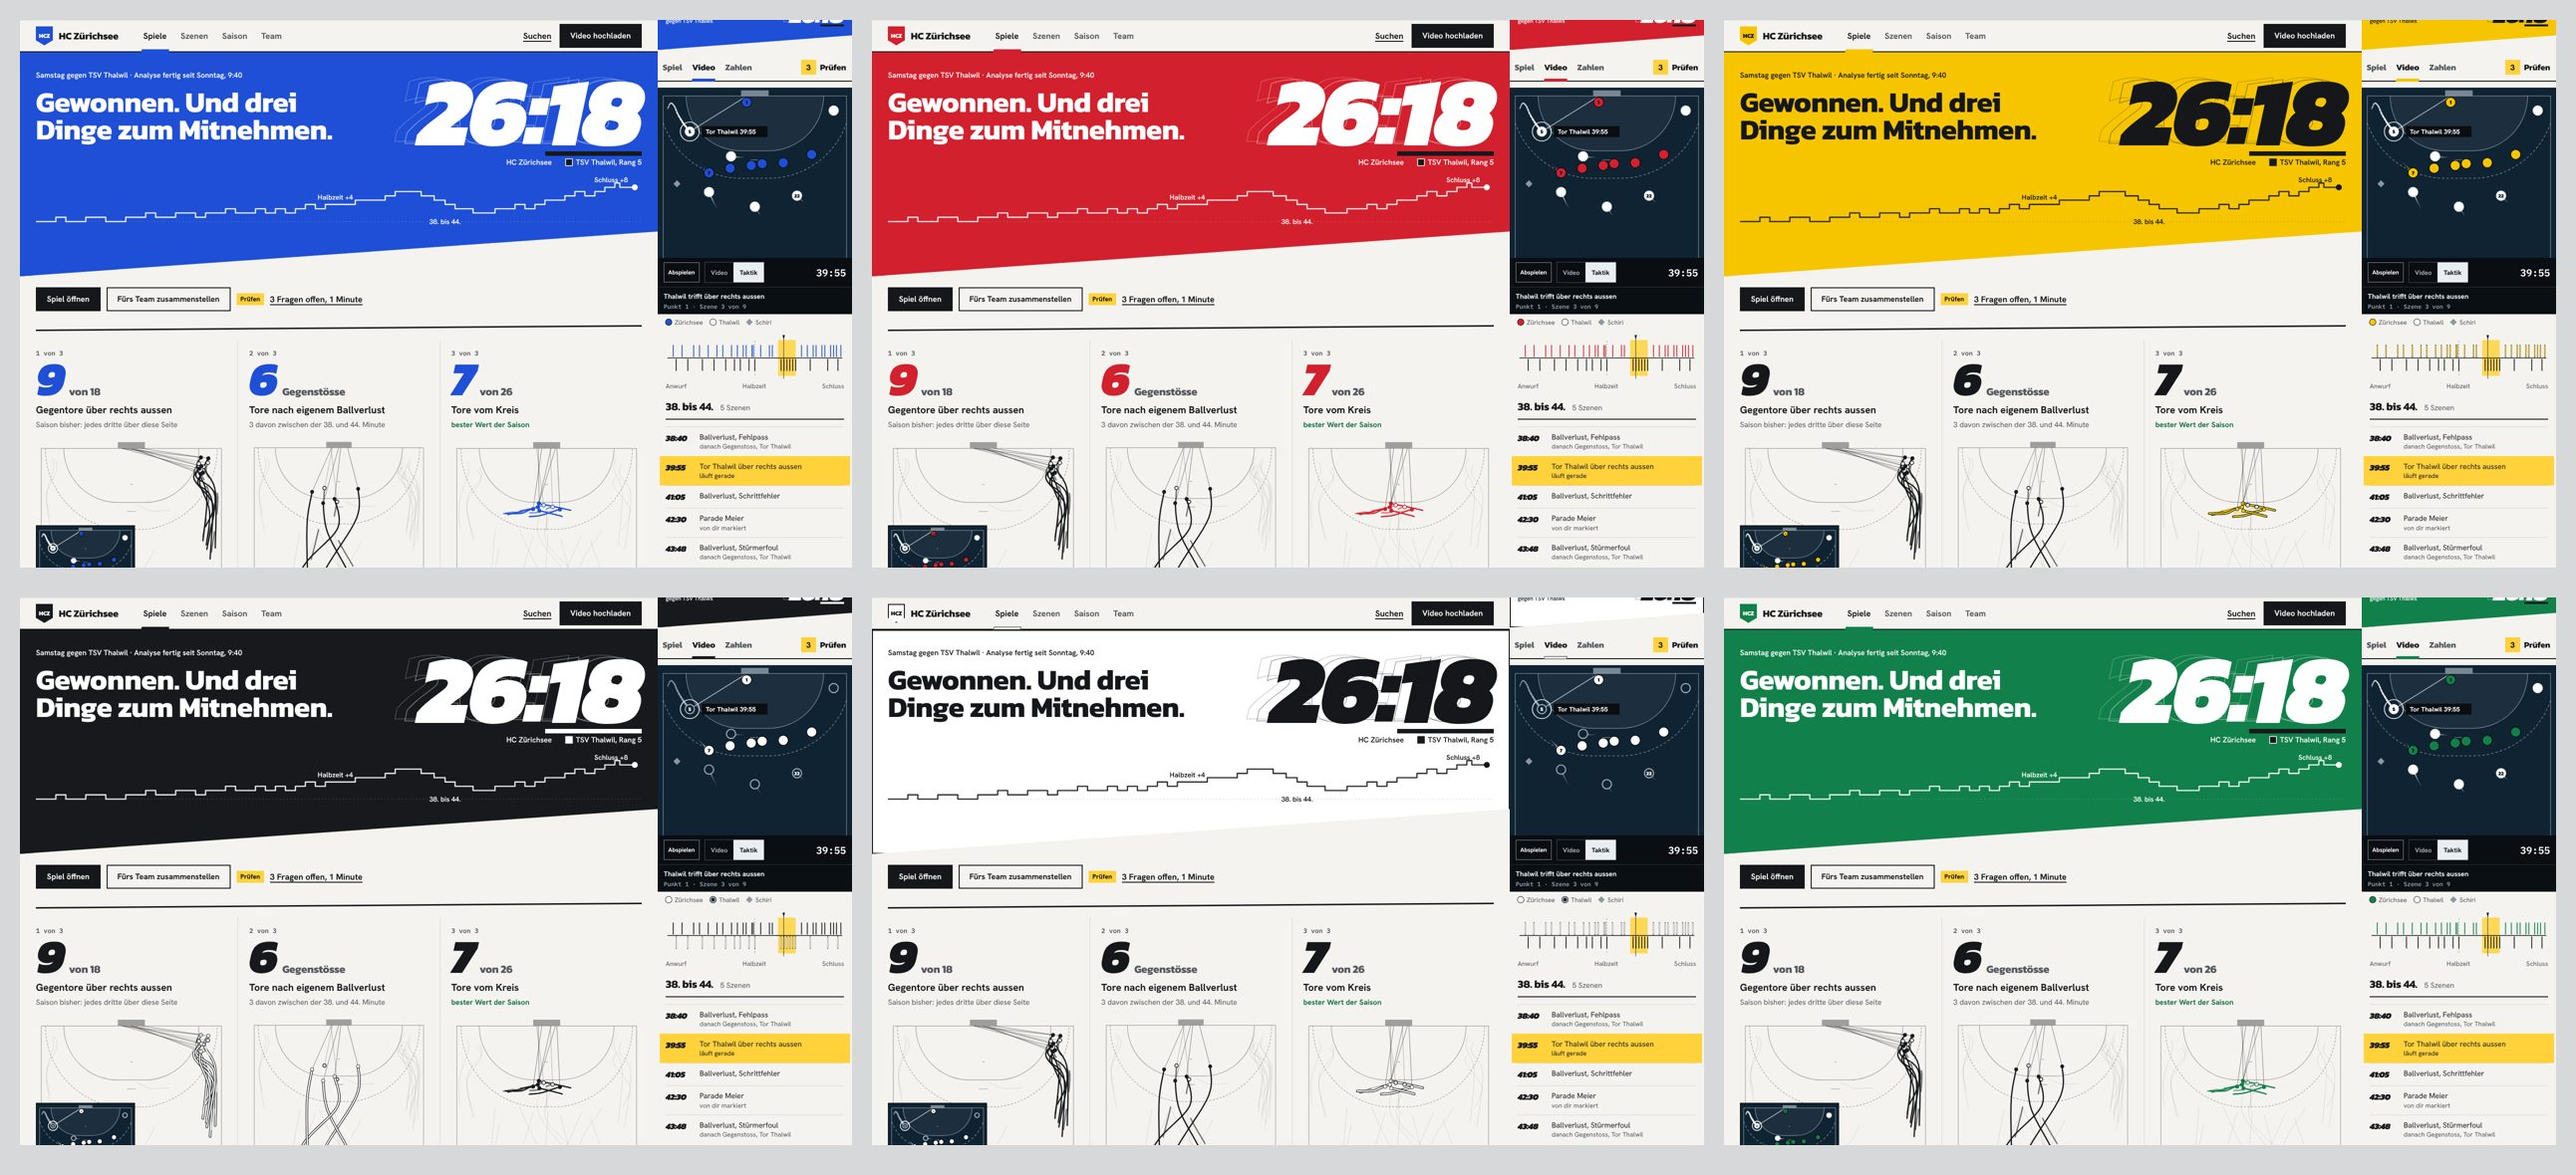
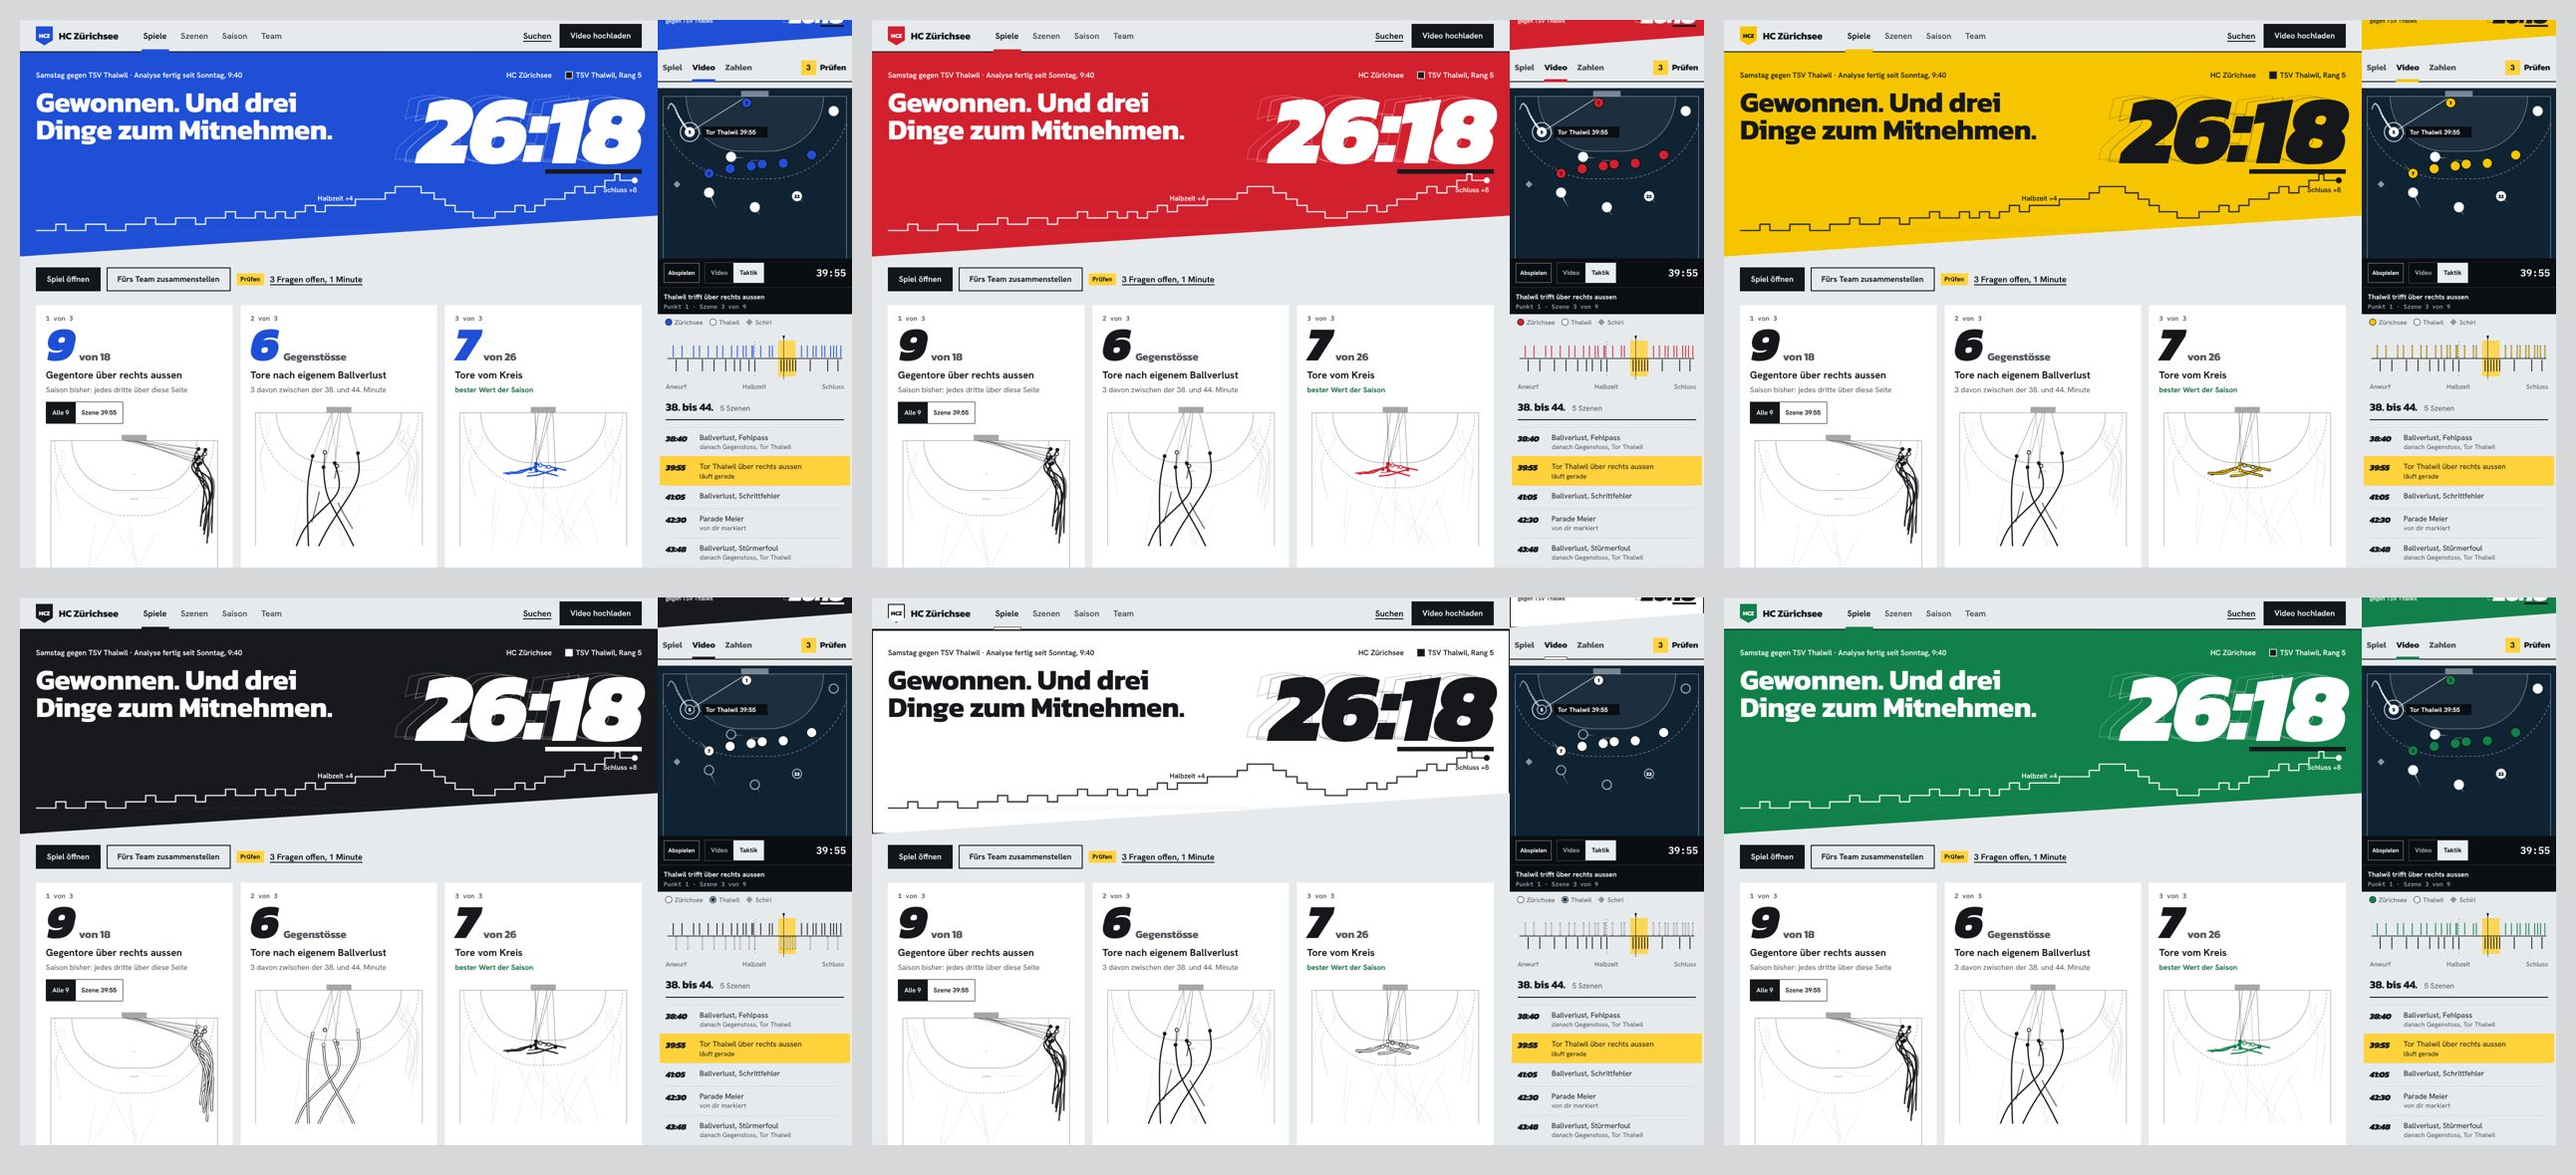
Anlauf: Punkt 1 schaltet zwischen Bündel und Szene, knapperer Wurf-Kopf, Feld-Check mit allen Ecken, Voreinstellung Schrift B mit Hallenlicht
Claude-Session: https://claude.ai/code/session_01H3gogARaTuGEWAQFd1Wjty

diff --git a/docs/design/ux-reset/runde5/anlauf/index.html b/docs/design/ux-reset/runde5/anlauf/index.html
@@ -1,5 +1,5 @@
 <!doctype html>
-<html lang="de-CH" class="fa g1">
+<html lang="de-CH" class="fb g2">
 <head>
 <meta charset="utf-8">
 <meta name="viewport" content="width=device-width, initial-scale=1">
@@ -83,7 +83,7 @@ html, body { margin: 0; background: #d6d8d9; color: #15171a; font-family: "Hanke
 
 /* ===== the Wurf head ===== */
 .wurf { position: relative; background: var(--club); color: var(--club-ink); clip-path: polygon(0 0, 100% 0, 100% 80%, 0 100%); box-shadow: inset 0 0 0 2px var(--club-edge); }
-.wurf.big { height: 450px; padding: 36px 32px 0; display: grid; grid-template-columns: 1fr 560px; gap: 24px; }
+.wurf.big { height: 410px; padding: 36px 32px 0; display: grid; grid-template-columns: 1fr 560px; gap: 24px; }
 .wurf .kick { font-size: 15px; font-weight: 600; margin-bottom: 14px; }
 .wurf h1 { font-size: 58px; line-height: .96; text-wrap: balance; }
 .wurf .score { position: relative; text-align: right; font-size: 196px; line-height: .8; margin-top: 4px; white-space: nowrap; }
@@ -93,7 +93,8 @@ html, body { margin: 0; background: #d6d8d9; color: #15171a; font-family: "Hanke
 .wurf .score u { text-decoration: underline; text-decoration-color: var(--opp); text-decoration-thickness: .045em; text-underline-offset: .06em; text-decoration-skip-ink: none; }
 .wurf .names { display: flex; justify-content: flex-end; gap: 28px; font-size: 15px; font-weight: 600; margin-top: 14px; }
 .oc { display: inline-block; width: 12px; height: 12px; background: var(--opp); box-shadow: 0 0 0 1.5px var(--club-ink); margin-right: 8px; vertical-align: -1px; }
-.wurf svg.fl { position: absolute; left: 0; right: 0; bottom: 92px; width: 100%; }
+.desk .wurf.big > div:nth-child(2) { display: flex; flex-direction: column; } .desk .wurf .names { order: -1; margin: 0 0 14px; }
+.wurf svg.fl { position: absolute; left: 0; right: 0; bottom: 34px; width: 100%; }
 svg text.fw { font: 600 14px var(--t); fill: var(--club-ink); }
 .wurf .meta { font-size: 14px; font-weight: 600; margin-top: 18px; opacity: .92; }
 .actrow { display: flex; gap: 12px; align-items: center; flex-wrap: wrap; padding: 22px 32px 0; }
@@ -102,7 +103,9 @@ svg text.fw { font: 600 14px var(--t); fill: var(--club-ink); }
 .phone .wurf .score { font-size: 100px; text-align: left; margin-top: 18px; } .phone .wurf .score .e { left: 0; right: auto; }
 .phone .wurf .score .e1 { transform: translate(10px, -3px); } .phone .wurf .score .e2 { transform: translate(20px, -6px); }
 .phone .wurf .names { justify-content: flex-start; gap: 18px; font-size: 12px; margin-top: 8px; flex-wrap: wrap; }
-.phone .wurf svg.fl { bottom: 40px; } .phone .actrow { padding: 18px 16px 0; }
+.phone .wurf svg.fl { bottom: 40px; }
+.flip { display: flex; gap: 0; margin-top: 4px; } .flip button { font: 700 13px var(--t); min-height: 44px; padding: 0 12px; border: 1.5px solid var(--ink); background: transparent; color: var(--ink); cursor: pointer; } .flip button + button { border-left: 0; } .flip button[aria-pressed="true"] { background: var(--ink); color: var(--ground); }
+.fig .scene .stage svg { width: 100%; } .phone .actrow { padding: 18px 16px 0; }
 /* the slim Wurf strip: the head of every sub-page of a match */
 .strip { position: relative; background: var(--club); color: var(--club-ink); clip-path: polygon(0 0, 100% 0, 100% 72%, 0 100%); height: 124px; padding: 20px 32px 0; display: flex; justify-content: space-between; align-items: flex-start; box-shadow: inset 0 0 0 2px var(--club-edge); }
 .strip .nm { font-size: 24px; line-height: 1.05; } .strip .nm small { display: block; font: 500 13px var(--t); margin-top: 6px; }
@@ -814,6 +817,7 @@ var G = {
   staefa: goals(61, { gs: 4, rl: 3 }, 1), rheinau: goals(71, { rl: 5, kr: 3 }, 1)
 };
 var VIEW_B = { box: [-0.6, -1.2, 21.2, 17.2] };
+VIEWS.halfB = { box: [-0.6, -1.2, 21.2, 17.2], m: "matrix(0 1 1 0 0 0)", f: function (p) { return [p[1], p[0]]; } };
 VIEWS.camL = { box: [-1.2, -1.2, 34, 22.4], m: null, f: function (p) { return p; } };
 /* a bundle: every goal of one kind as the scorer's run, ending at the shot spot, then a thin straight line to the goal */
 function bundleR5(svg) {
@@ -946,7 +950,7 @@ function flightR5(svg) {
   o += '<path d="' + d(pts) + '" fill="none" stroke="var(--club-ink)" stroke-width="' + (small ? 2 : 2.6) + '" stroke-linejoin="round" stroke-opacity=".9"/>';
   var e = [x(60), y(8)];
   o += '<circle cx="' + e[0] + '" cy="' + e[1] + '" r="' + (small ? 4 : 6) + '" fill="var(--club-ink)"/>';
-  if (!small) o += '<text x="' + (x(30)) + '" y="' + (y(4) - 10) + '" text-anchor="middle" class="fw">Halbzeit +4</text><text x="' + (e[0] - 14) + '" y="' + (e[1] - 10) + '" text-anchor="end" class="fw">Schluss +8</text><text x="' + x(41) + '" y="' + (y(2) + 22) + '" text-anchor="middle" class="fw">38. bis 44.</text>';
+  if (!small) o += '<text x="' + (x(30)) + '" y="' + (y(4) - 10) + '" text-anchor="middle" class="fw">Halbzeit +4</text><text x="' + (e[0] + 4) + '" y="' + (e[1] + 24) + '" text-anchor="end" class="fw">Schluss +8</text>';
   svg.setAttribute("viewBox", "0 0 " + W + " " + H); svg.innerHTML = o;
 }
 /* timeline under the stage: goals from the match report, ours up, theirs down, the marked phase */
@@ -980,12 +984,12 @@ function headStart(ph, W, unknown) {
   return '<section class="wurf big"' + (ph && unknown ? ' style="height:460px"' : "") + '><div><p class="kick">' + (ph ? "Sa gegen TSV Thalwil · fertig seit So, 9:40" : "Samstag gegen TSV Thalwil · Analyse fertig seit Sonntag, 9:40") + '</p><h1 class="d">' + TITLE5 + "</h1></div>"
     + '<div><div class="score n" role="img" aria-label="26 zu 18">' + scoreHTML(26, 18) + '</div><p class="names"><span>HC Zürichsee</span><span><i class="oc"></i>' + oppName() + (unknown ? ", Farbe offen" : ph ? "" : ", Rang 5") + "</span></p>"
     + (unknown ? '<div class="ask">Welche Farbe trägt Thalwil? ' + ["#17191c", "#ffffff", "#0b7a8a", "#d3202e", "#12804a"].map(function (c) { return '<button aria-label="Farbe wählen"><i style="background:' + c + '"></i></button>'; }).join("") + "</div>" : "") + "</div>"
-    + '<svg class="fl" data-fl data-w="' + W + '" data-h="' + (ph ? 84 : 120) + '" role="img" aria-label="Verlauf der Tordifferenz: Halbzeit plus 4, Schluss plus 8, von der 38. bis zur 44. Minute minus 5"></svg></section>';
+    + '<svg class="fl" data-fl data-w="' + W + '" data-h="' + (ph ? 84 : 160) + '" role="img" aria-label="Verlauf der Tordifferenz: Halbzeit plus 4, Schluss plus 8, von der 38. bis zur 44. Minute minus 5"></svg></section>';
 }
 function headMatch(ph, W) {
-  return '<section class="wurf big" style="height:' + (ph ? 360 : 400) + 'px"><div><p class="kick">Samstag, 7. November · Halle Seefeld</p><h1 class="d" style="font-size:' + (ph ? 28 : 44) + 'px">HC Zürichsee gegen TSV Thalwil</h1><p class="meta">Halbzeit 13:9 · Time-outs 2 und 3 · Rang 5</p></div>'
+  return '<section class="wurf big" style="height:' + (ph ? 360 : 380) + 'px"><div><p class="kick">Samstag, 7. November · Halle Seefeld</p><h1 class="d" style="font-size:' + (ph ? 28 : 44) + 'px">HC Zürichsee gegen TSV Thalwil</h1><p class="meta">Halbzeit 13:9 · Time-outs 2 und 3 · Rang 5</p></div>'
     + '<div><div class="score n" role="img" aria-label="26 zu 18"' + (ph ? ' style="font-size:88px;margin-top:10px"' : "") + ">" + scoreHTML(26, 18) + "</div></div>"
-    + '<svg class="fl" data-fl data-w="' + W + '" data-h="' + (ph ? 72 : 110) + '" role="img" aria-label="Verlauf der Tordifferenz"' + (ph ? ' style="bottom:30px"' : ' style="bottom:74px"') + "></svg></section>";
+    + '<svg class="fl" data-fl data-w="' + W + '" data-h="' + (ph ? 72 : 150) + '" role="img" aria-label="Verlauf der Tordifferenz"' + (ph ? ' style="bottom:30px"' : ' style="bottom:30px"') + "></svg></section>";
 }
 function strip5(ph, a, b, opp) {
   a = a || 26; b = b || 18; opp = opp || "TSV Thalwil";
@@ -1004,9 +1008,11 @@ function things5(ph, opts) {
   opts = opts || {};
   var W = ph ? 132 : 380;
   return '<ol class="things play">' + TH5.map(function (t, i) {
-    var inset = opts.preview && i === 0 && !ph ? '<div class="inset"><svg data-cam="ra" data-view="halfL" data-w="198" data-r="5" role="img" aria-label="Taktikkamera, Vorschau der Szene 39:55"></svg><p><span>Szene 39:55</span><button class="pause" aria-pressed="false">Pause</button></p></div>' : "";
+    var sw = opts.preview && i === 0 && !ph;
+    var inset = sw ? '<div class="scene" hidden><div class="stage"><svg data-cam="ra" data-view="halfB" data-w="' + W + '" data-r="8" role="img" aria-label="Taktikkamera, Szene 39:55: Thalwil trifft über rechts aussen"></svg><div class="bar"><button class="pause" aria-pressed="false">Pause</button><span>Taktikkamera</span><span class="clk">39:55</span></div></div></div>' : "";
     return '<li><div class="no"><em>' + (i + 1) + ' von 3</em><b class="n">' + t.v + '</b><span class="d">' + t.unit + "</span></div><p>" + t.p + '</p><small class="' + (t.up ? "up" : "") + '">' + t.s + "</small>"
       + (opts.drill && t.drill ? '<small>Dazu üben: <a class="lnk" href="#">' + t.drill + "</a></small>" : "")
+      + (sw ? '<div class="flip" role="group" aria-label="Ansicht von Punkt 1"><button aria-pressed="true" data-flip="b">Alle 9</button><button aria-pressed="false" data-flip="s">Szene 39:55</button></div>' : "")
       + '<div class="fig"><svg data-b="' + t.b + '" data-w="' + W + '" role="img" aria-label="' + t.v + " " + t.unit + ': jeder Anlauf bis zur Wurfposition, dann der Strich zum Tor"></svg>' + inset + "</div>"
       + '<a class="btn s" href="#">' + t.sc + " <small>" + t.t + "</small></a></li>";
   }).join("") + "</ol>";
@@ -1159,7 +1165,8 @@ function kamCheck(svg) {
   var cs = [[0, 0], [20, 0], [20, 20], [0, 20]].map(function (p) { return P(p[0], p[1]); });
   html += '<path d="M' + cs.map(function (p) { return p[0].toFixed(1) + " " + p[1].toFixed(1); }).join("L") + 'Z" fill="#ffd23c" fill-opacity=".1" stroke="#ffd23c" stroke-width="3.5" stroke-dasharray="12 7"/>';
   cs.forEach(function (p) { html += '<rect x="' + (p[0] - 13) + '" y="' + (p[1] - 13) + '" width="26" height="26" fill="#ffd23c" stroke="#15171a" stroke-width="3"/>'; });
-  svg.innerHTML = html;
+  /* a slightly wider lens, so all four corners are in the picture */
+  svg.innerHTML = '<rect width="1000" height="562" fill="#1d2125"/><g transform="translate(50 28.1) scale(.9)">' + html + "</g>";
 }
 var SCREENS = [
   ["start-desk", "Start", "Desktop 1280 · Wurf-Kopf mit dem Resultat, Punkt 1 läuft klein auf der Taktikkamera", "desk", function () { return startDesk(false); }],
@@ -1200,6 +1207,12 @@ function sync5() {
   document.querySelectorAll("[data-g]").forEach(function (b) { b.setAttribute("aria-pressed", String(c.indexOf(b.dataset.g) >= 0)); });
   document.querySelectorAll("[data-c]").forEach(function (b) { b.setAttribute("aria-pressed", String(b.dataset.c === ST5.club)); });
 }
+document.addEventListener("click", function (e) {
+  var b = e.target.closest("[data-flip]"); if (!b) return;
+  var li = b.closest("li"), scene = b.dataset.flip === "s";
+  li.querySelectorAll("[data-flip]").forEach(function (x) { x.setAttribute("aria-pressed", String(x === b)); });
+  li.querySelector(".fig > svg").hidden = scene; li.querySelector(".scene").hidden = !scene;
+});
 (function () {
   var q = new URLSearchParams(location.search), root = document.documentElement;
   if (q.get("f")) root.className = root.className.replace(/f[ab]/, q.get("f"));
